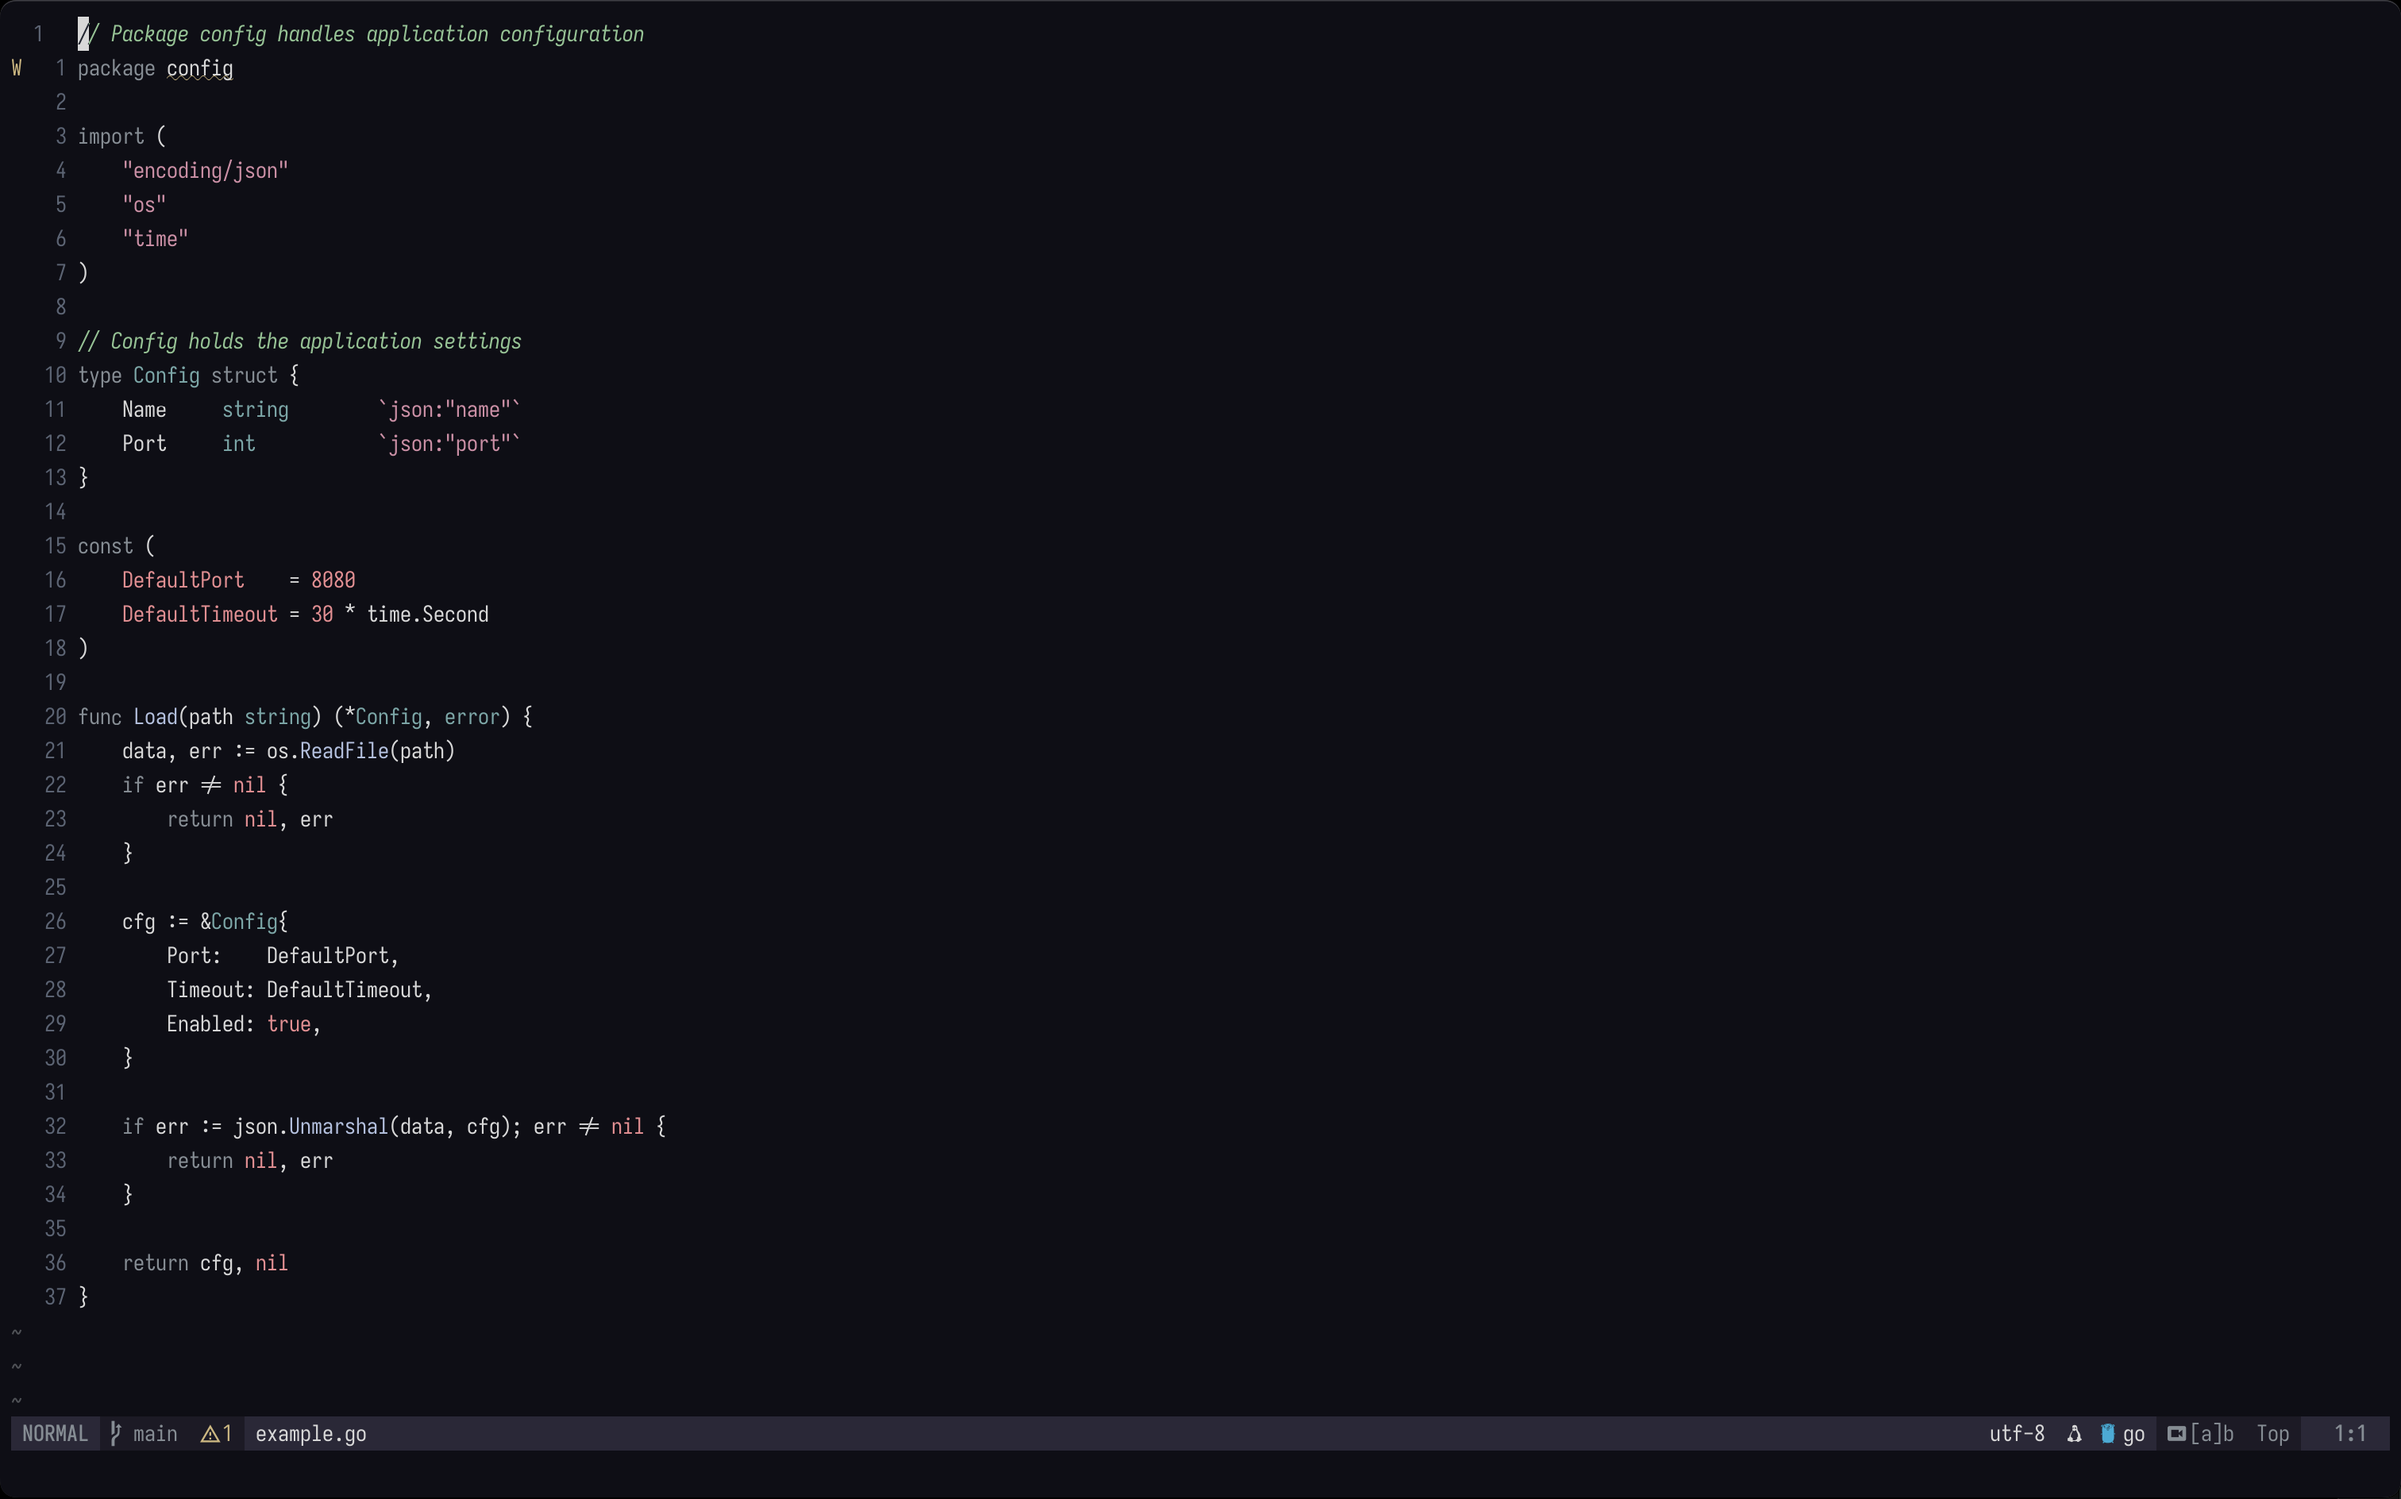
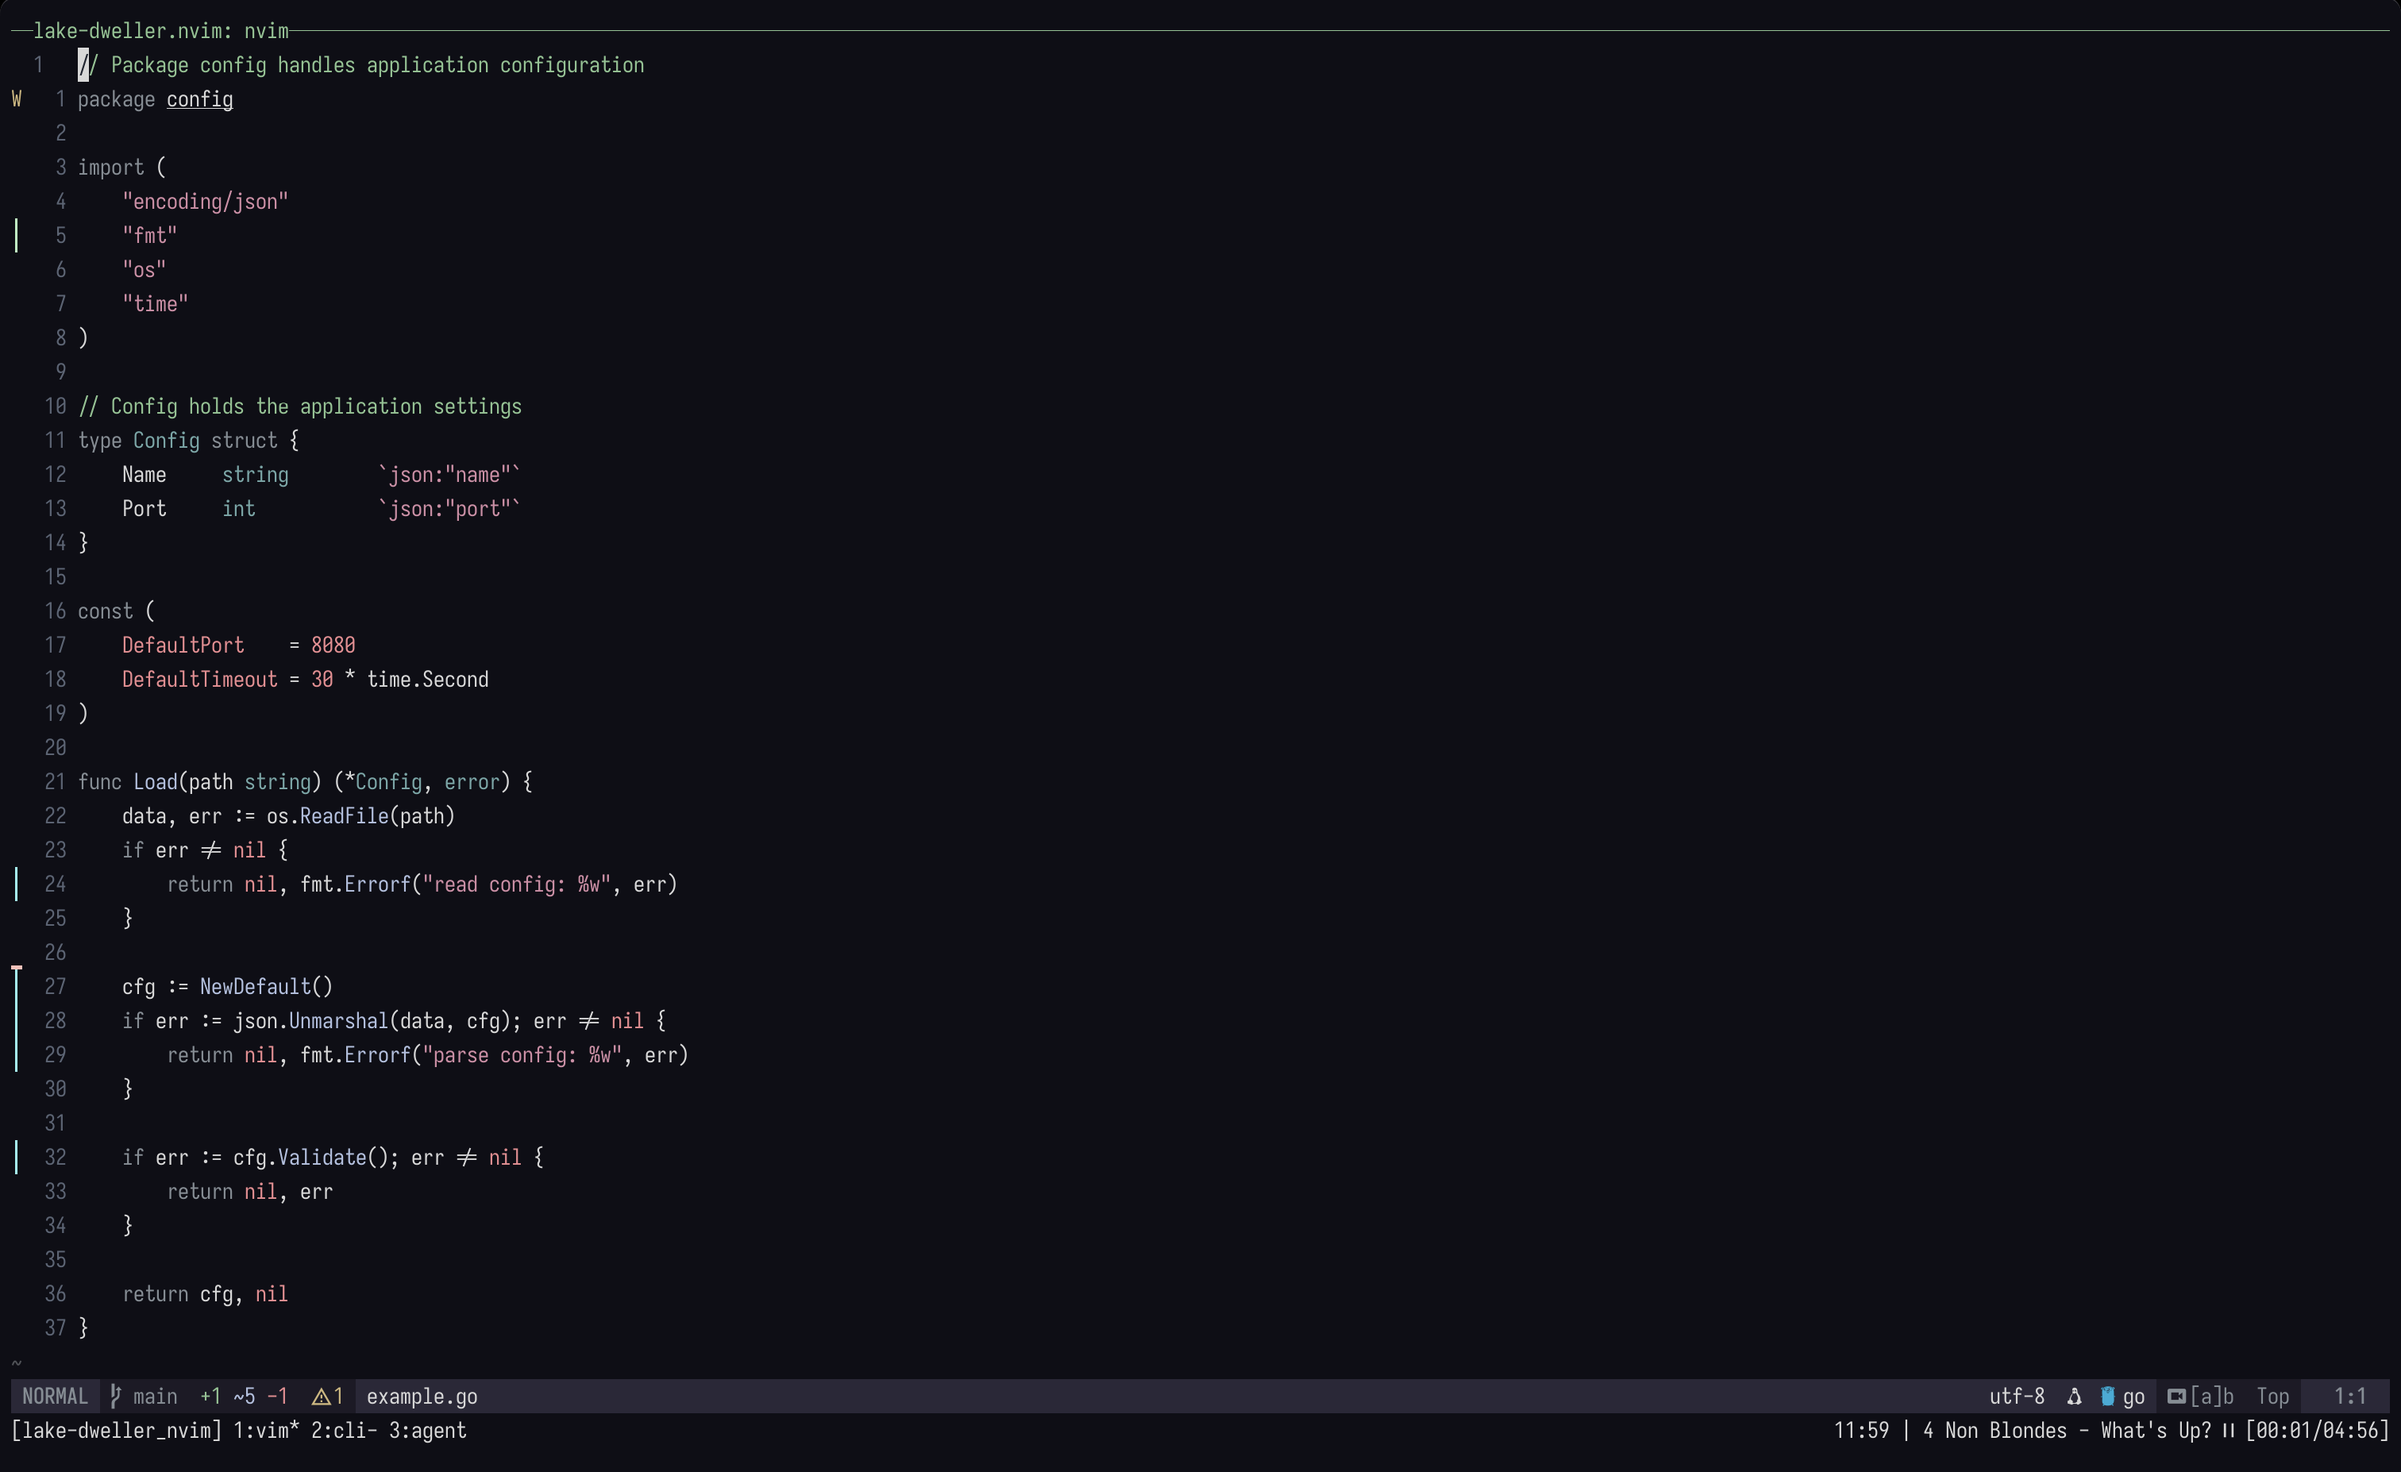
better screenshots

diff --git a/assets/example.go b/assets/example.go
@@ -3,6 +3,7 @@ package config
 
 import (
 	"encoding/json"
+	"fmt"
 	"os"
 	"time"
 )
@@ -21,16 +22,15 @@ const (
 func Load(path string) (*Config, error) {
 	data, err := os.ReadFile(path)
 	if err != nil {
-		return nil, err
+		return nil, fmt.Errorf("read config: %w", err)
 	}
 
-	cfg := &Config{
-		Port:    DefaultPort,
-		Timeout: DefaultTimeout,
-		Enabled: true,
-	}
-
+	cfg := NewDefault()
 	if err := json.Unmarshal(data, cfg); err != nil {
+		return nil, fmt.Errorf("parse config: %w", err)
+	}
+
+	if err := cfg.Validate(); err != nil {
 		return nil, err
 	}
 

diff --git a/README.md b/README.md
@@ -3,6 +3,7 @@
 A minimal, soft dark colorscheme for Neovim with muted tones and subtle contrast.
 
 ![lake-dweller](assets/screenshot.png)
+![lake-dweller](assets/screenshot-2.png)
 
 ## Requirements
 
